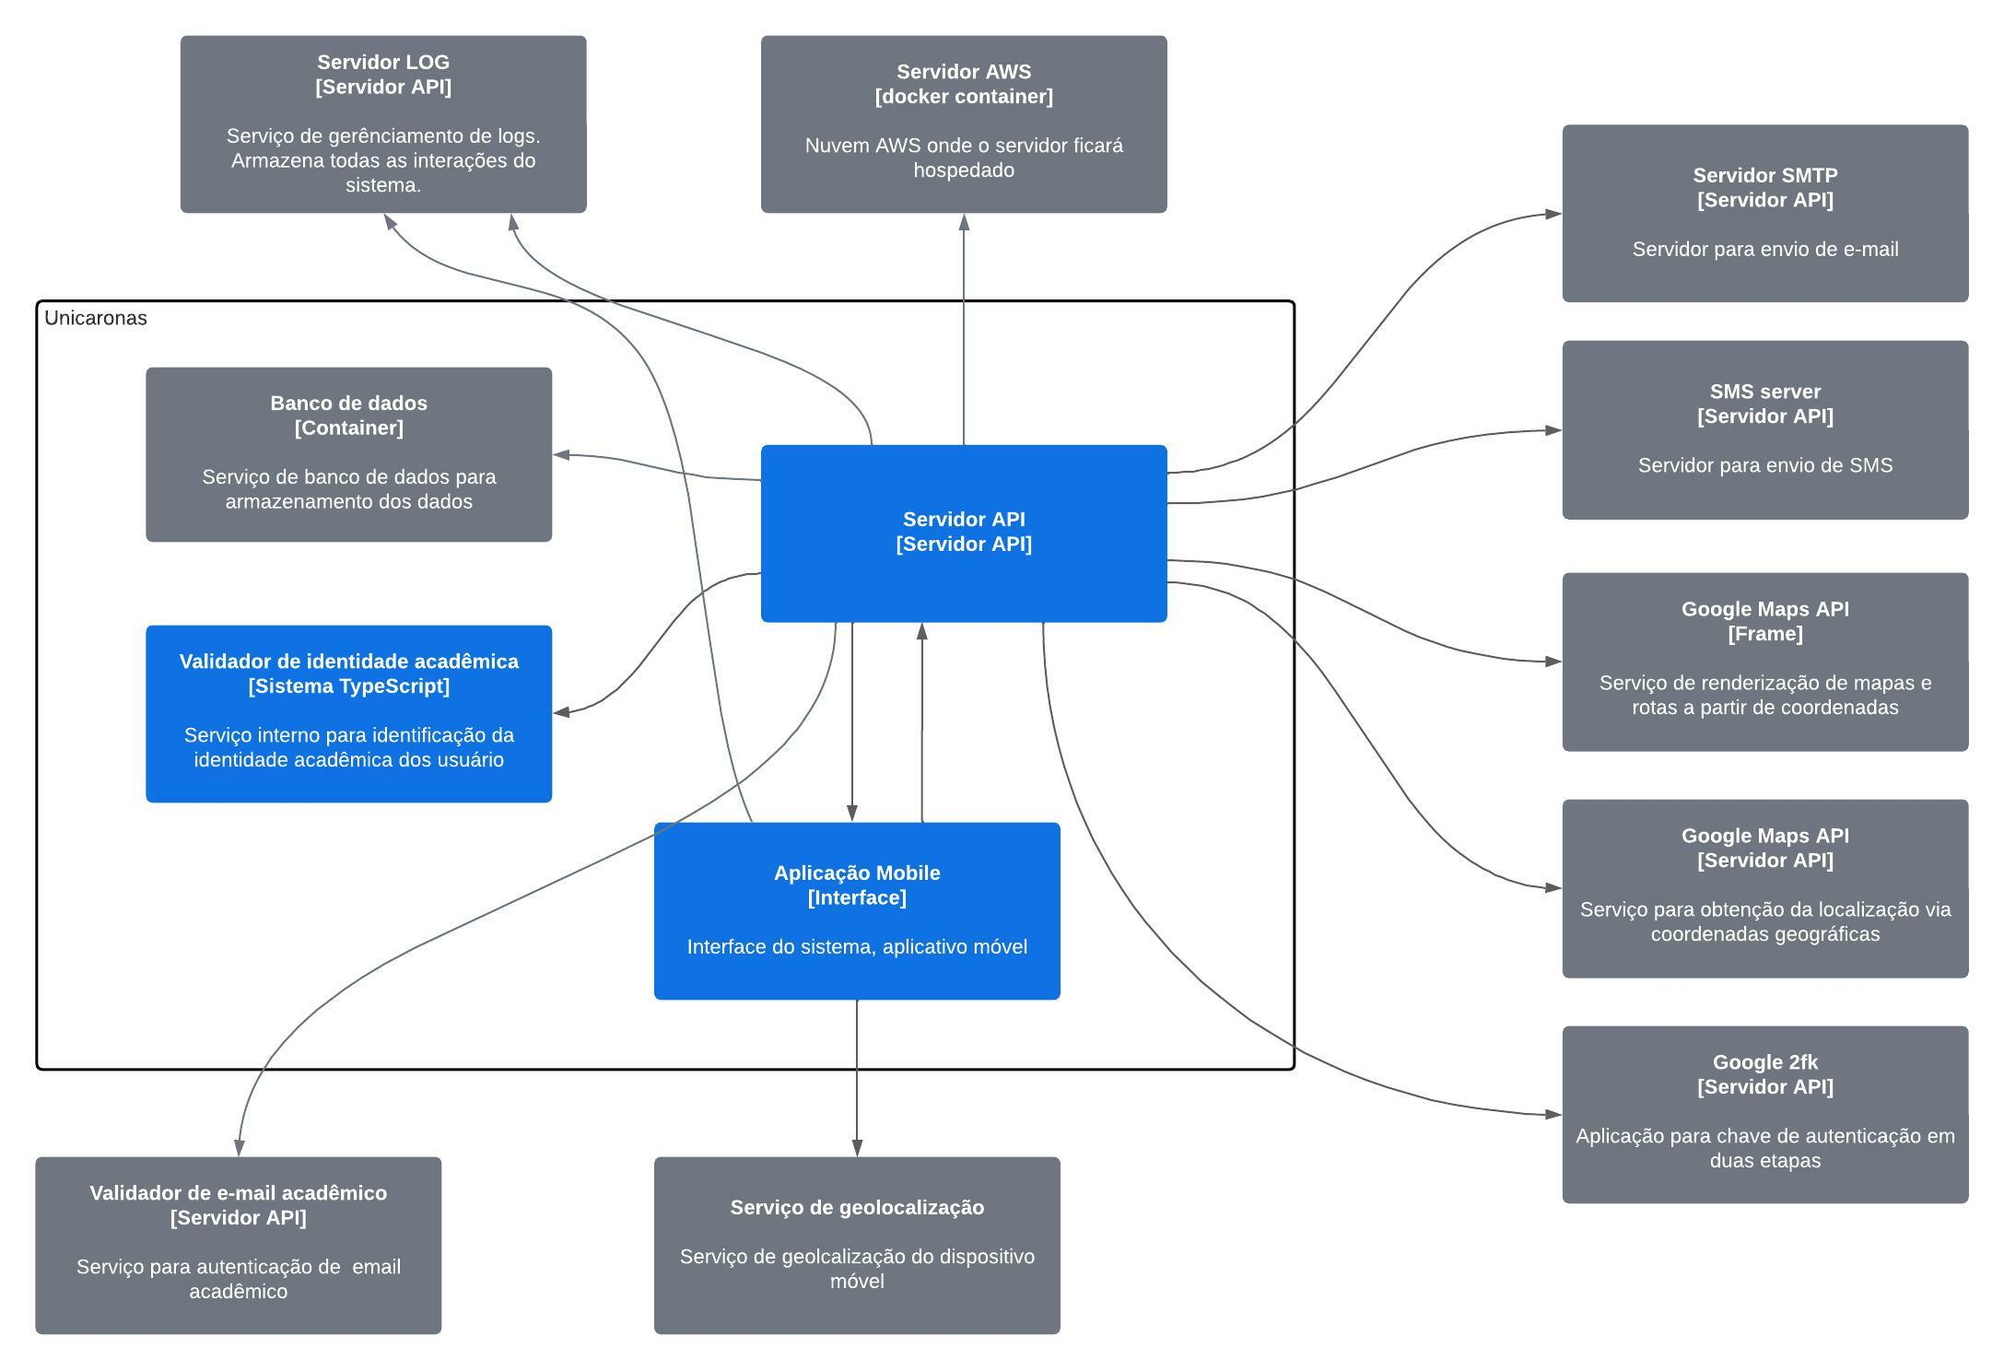
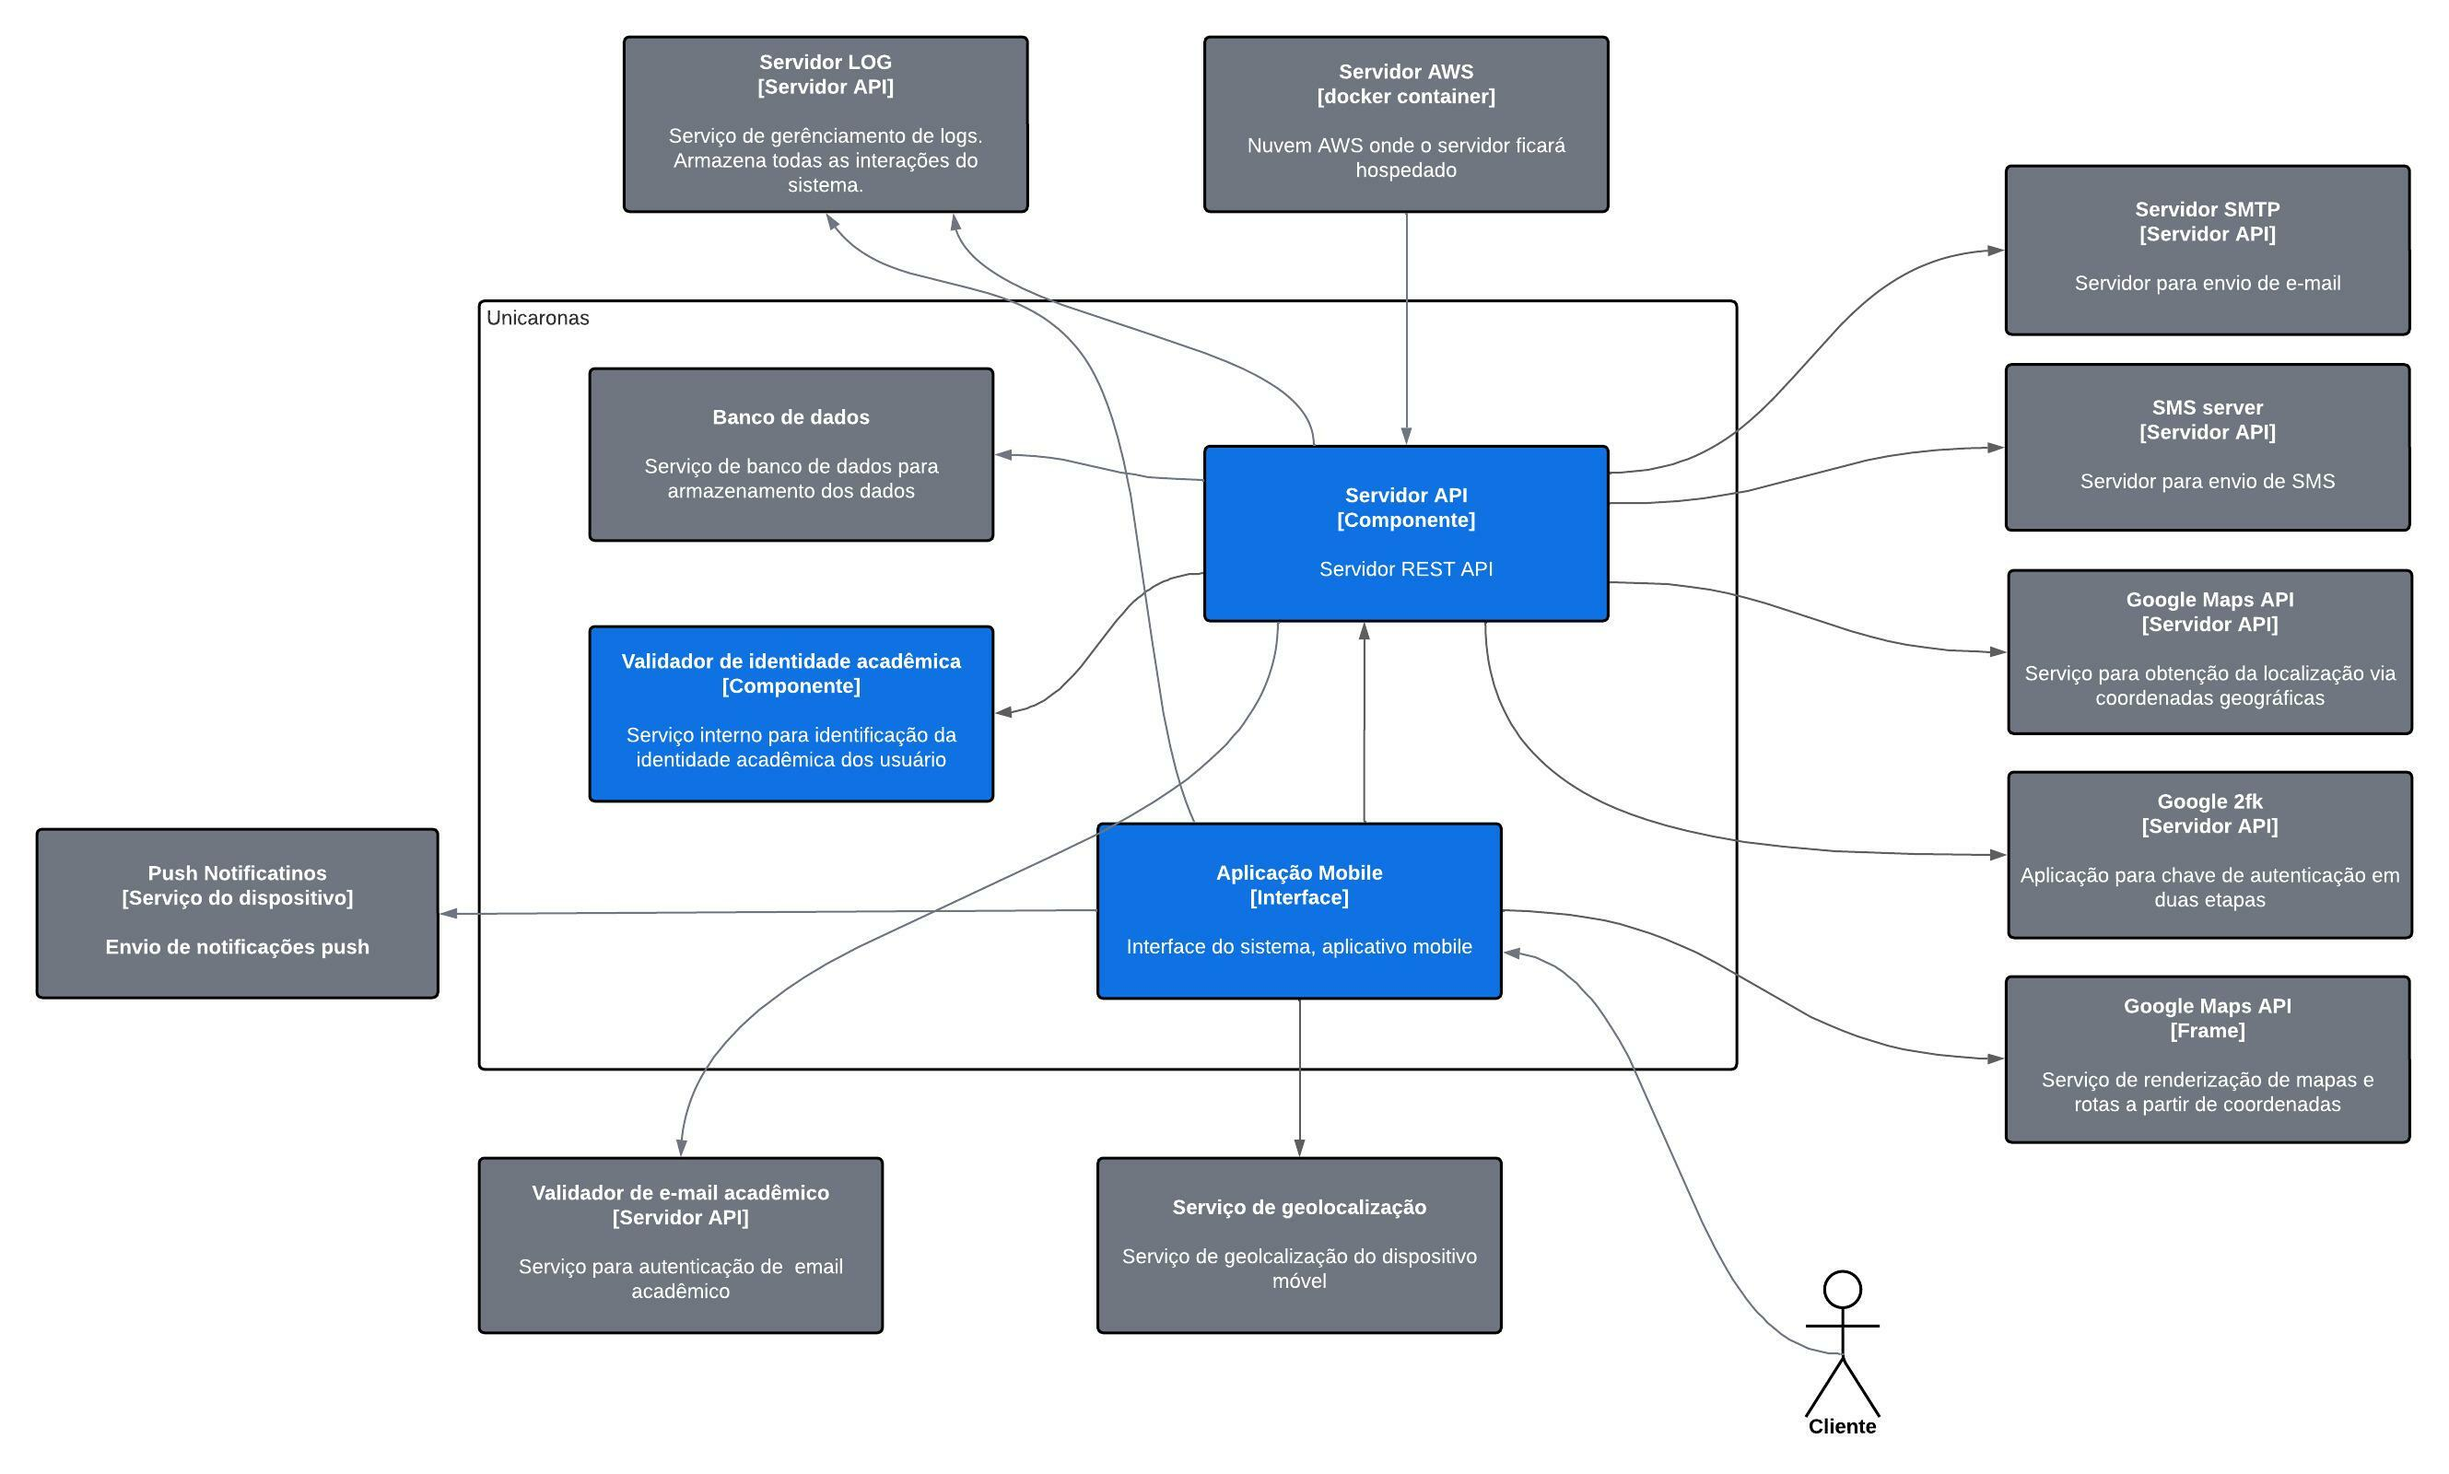
Atualização dos diagramas

diff --git a/README.md b/README.md
@@ -4,6 +4,14 @@
 
 Serviço de gestão de caronas para usuários acadêmicos com finalidade de reduzir o tempo do transporte de/para a universidade. O serviço oferece acesso apenas para estudantes devidamente matriculados e ativos nas instituições de ensino cadastradas. De forma que o endereço, localização, telefone nem outro detalhe seja compartilhado.
 
-## Alunos
+## Necessidade
+
+## Restrições
+
+## Requisitos
+
+<hr>
+
+### Alunos
 
 Gustavo Ribeiro de Oliveira (Matrícula: 201910881)

diff --git a/Diagramas/componente.md b/Diagramas/componente.md
@@ -1,0 +1,13 @@
+# Diagrama de componente
+
+## Servidor API
+
+![Diagrama de componente do servidor API](diagramas/componente_servidor.jpeg)
+
+## Validador de identidade acadêmica
+
+![Diagrama de componente da VIA (Validador de identidade acadêmica)](diagramas/componente_via.jpeg)
+
+## Aplicação Mobile
+
+![Diagrama de componente da aplicação mobile](diagramas/mobile.jpeg)

diff --git a/Diagramas/container.md b/Diagramas/container.md
@@ -1,1 +1,3 @@
-![alt text](diagramas/container.jpeg)
+# Diagrama de container
+
+![Diagrama de container](diagramas/container.jpeg)

diff --git a/Diagramas/contexto.md b/Diagramas/contexto.md
@@ -1,1 +1,3 @@
-![alt text](diagramas/contexto.jpeg)
+# Diagrama de contexto
+
+![Diagrama de contexto](diagramas/contexto.jpeg)
